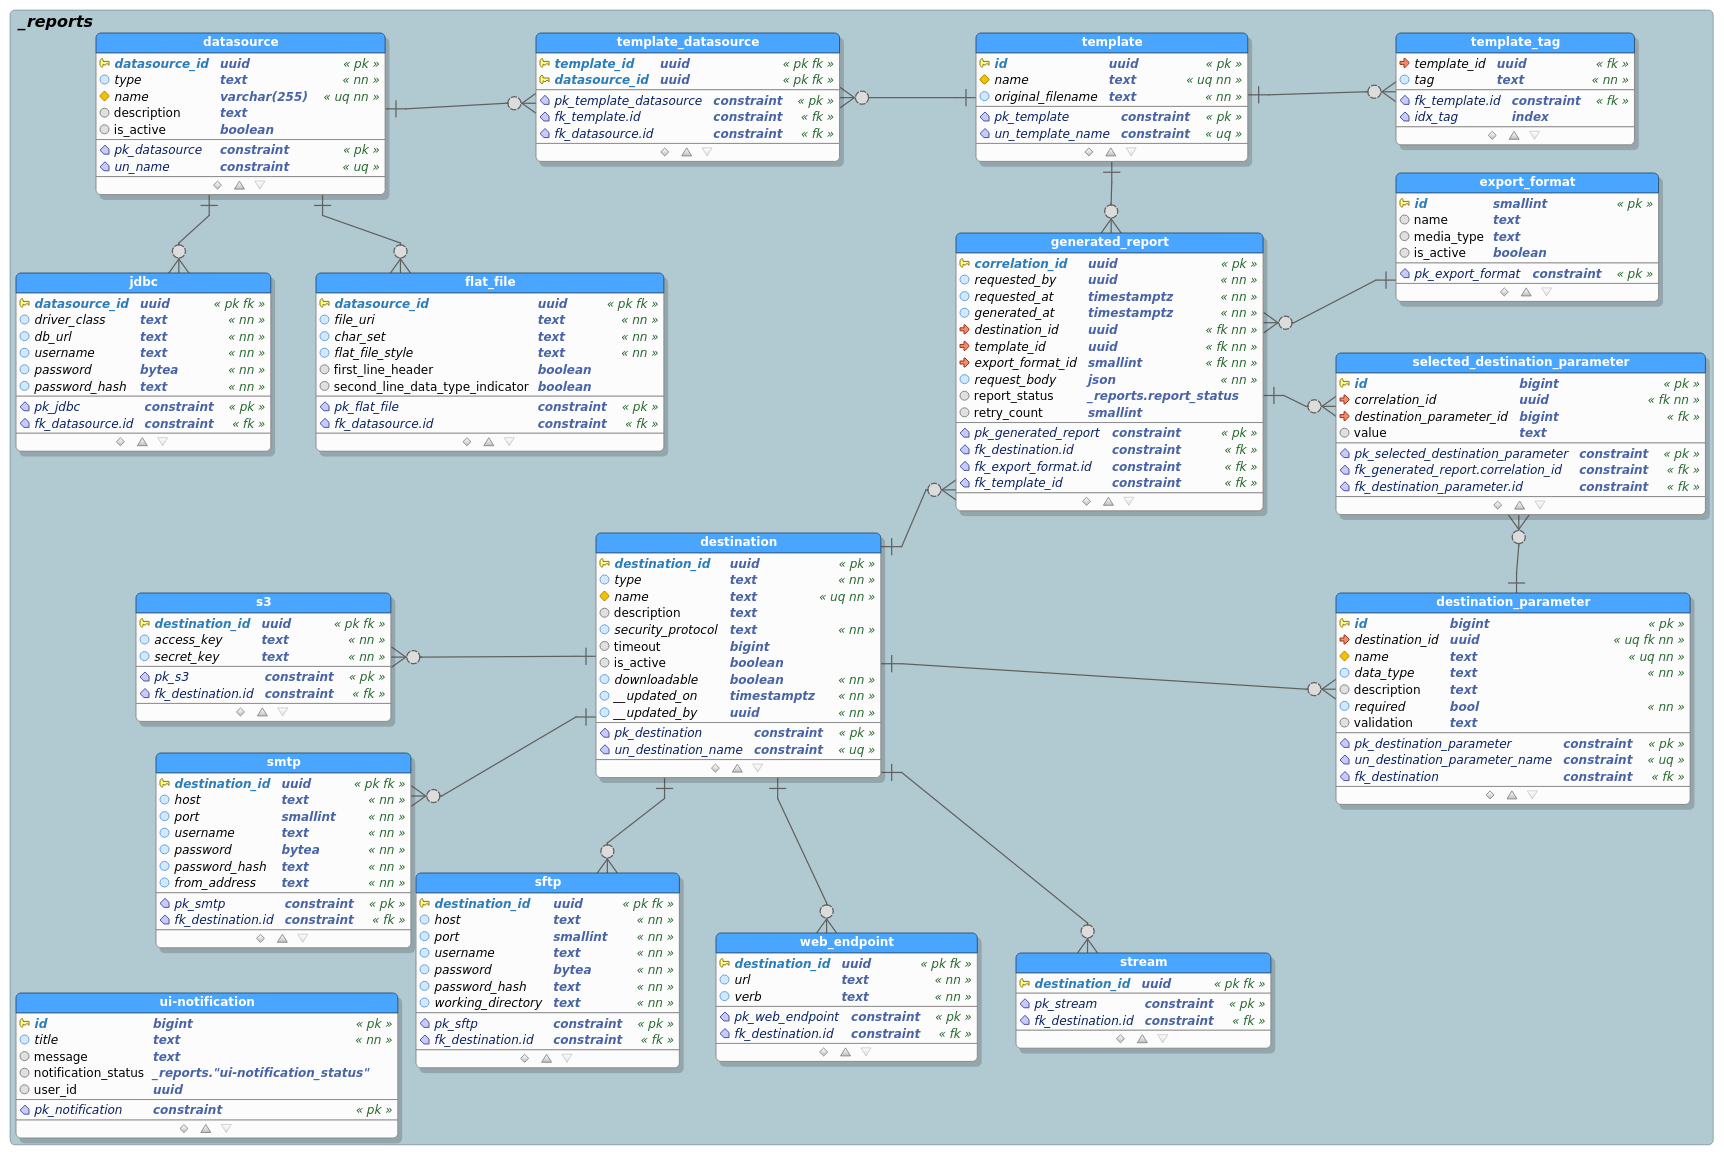
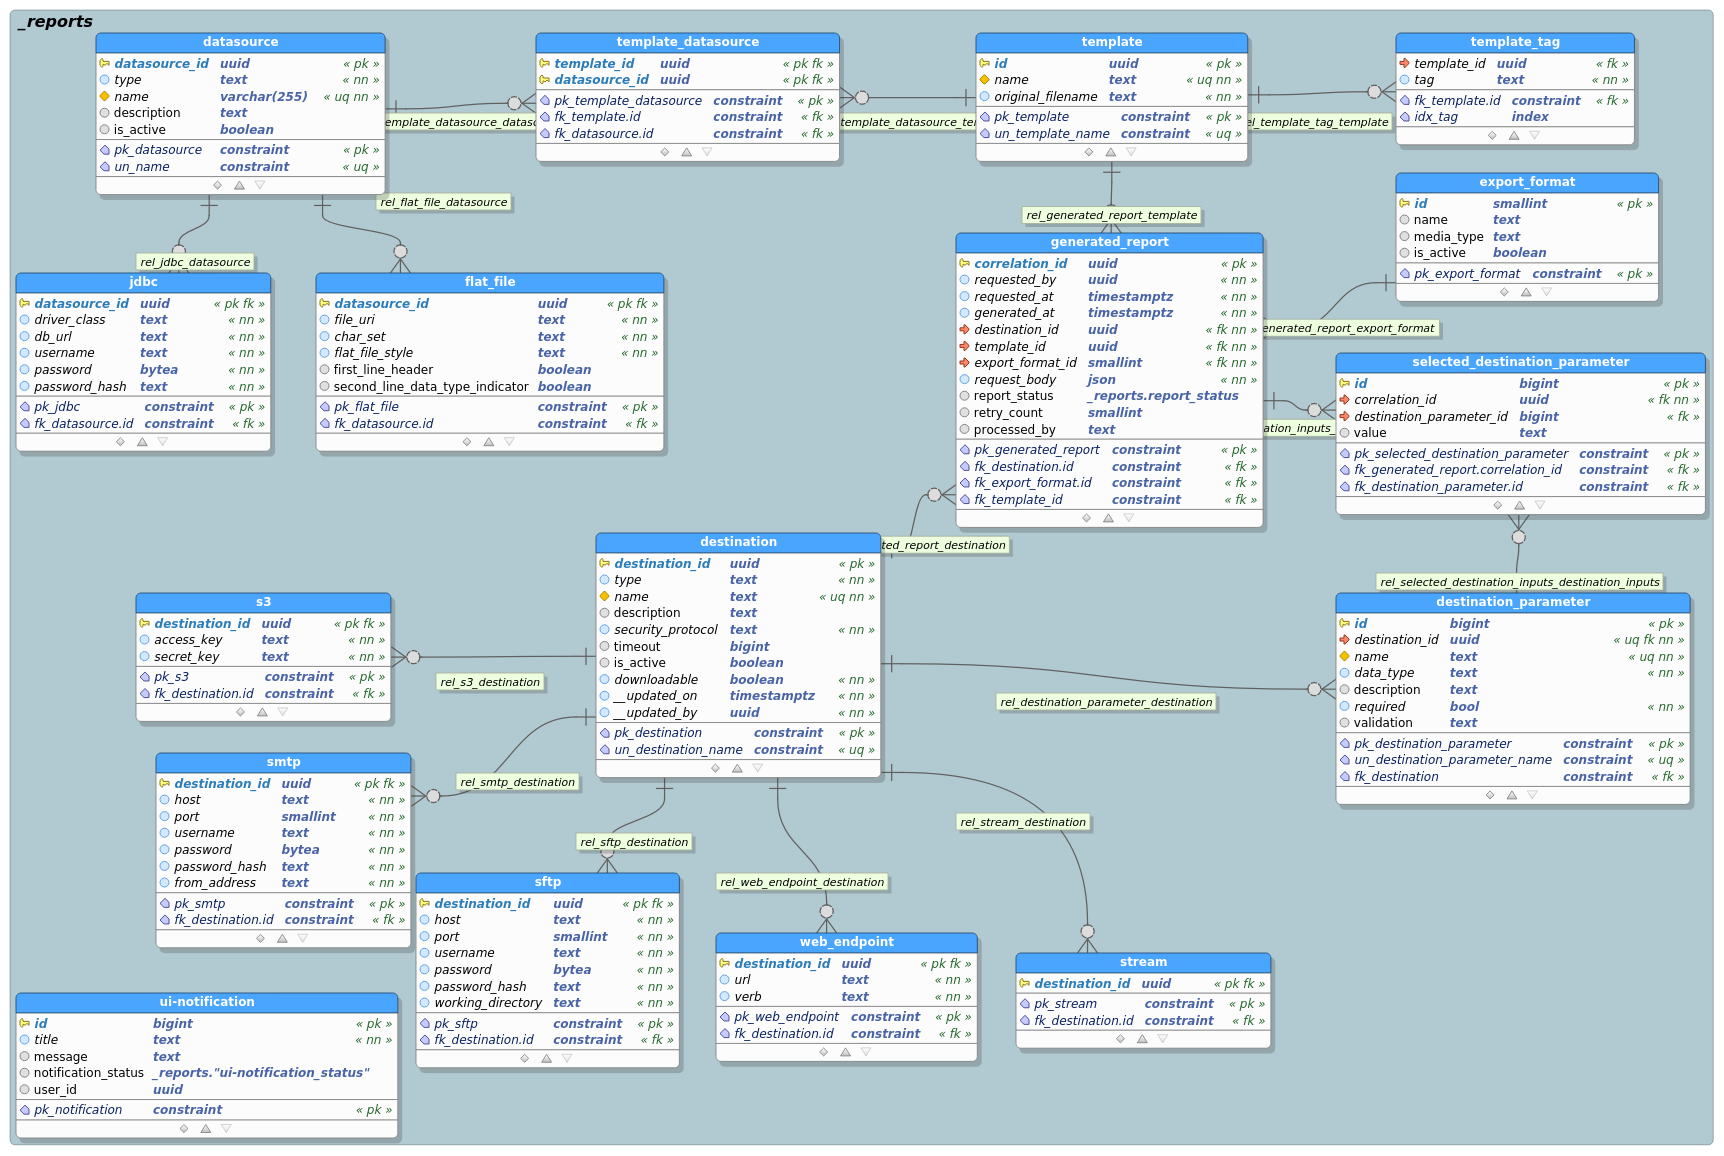
include processed_by column to generated_reports

diff --git a/src/main/java/org/tilkynna/report/generate/model/db/GeneratedReportEntity.java b/src/main/java/org/tilkynna/report/generate/model/db/GeneratedReportEntity.java
@@ -88,6 +88,10 @@ public class GeneratedReportEntity {
     @Type(type = "pgsql_enum")
     private ReportStatusEntity reportStatus; //
 
+    @Column(name = "processed_by")
+    @Type(type = "org.hibernate.type.TextType")
+    private String proccesedBy;
+
     @OneToMany(mappedBy = "generatedReport", cascade = CascadeType.ALL, orphanRemoval = true, fetch = FetchType.EAGER)
     private Set<SelectedDestinationParameterEntity> selectedDestinationParameters = new HashSet<>();
 
@@ -101,16 +105,24 @@ public class GeneratedReportEntity {
 
     @Override
     public int hashCode() {
-        return Objects.hash(destination, exportFormat, generatedAt, reportStatus, requestBody, requestedAt, requestedBy, retryCount, selectedDestinationParameters, template);
+        return Objects.hash(destination, exportFormat, generatedAt, reportStatus, requestBody, requestedAt, requestedBy, retryCount, selectedDestinationParameters, template, proccesedBy);
     }
 
     @Override
     public boolean equals(Object obj) {
-        if (this == obj) { return true; }
-        if (obj == null) { return false; }
-        if (!(obj instanceof GeneratedReportEntity)) { return false; }
+        if (this == obj) {
+            return true;
+        }
+        if (obj == null) {
+            return false;
+        }
+        if (!(obj instanceof GeneratedReportEntity)) {
+            return false;
+        }
         GeneratedReportEntity other = (GeneratedReportEntity) obj;
-        return Objects.equals(destination, other.destination) && Objects.equals(exportFormat, other.exportFormat) && Objects.equals(generatedAt, other.generatedAt) && reportStatus == other.reportStatus && Objects.equals(requestBody, other.requestBody) && Objects.equals(requestedAt, other.requestedAt) && Objects.equals(requestedBy, other.requestedBy) && Objects.equals(retryCount, other.retryCount) && Objects.equals(selectedDestinationParameters, other.selectedDestinationParameters) && Objects.equals(template, other.template);
+        return Objects.equals(destination, other.destination) && Objects.equals(exportFormat, other.exportFormat) && Objects.equals(generatedAt, other.generatedAt) && reportStatus == other.reportStatus
+                && Objects.equals(requestBody, other.requestBody) && Objects.equals(requestedAt, other.requestedAt) && Objects.equals(requestedBy, other.requestedBy) && Objects.equals(retryCount, other.retryCount)
+                && Objects.equals(selectedDestinationParameters, other.selectedDestinationParameters) && Objects.equals(template, other.template) && Objects.equals(proccesedBy, other.proccesedBy);
     }
 
 }
